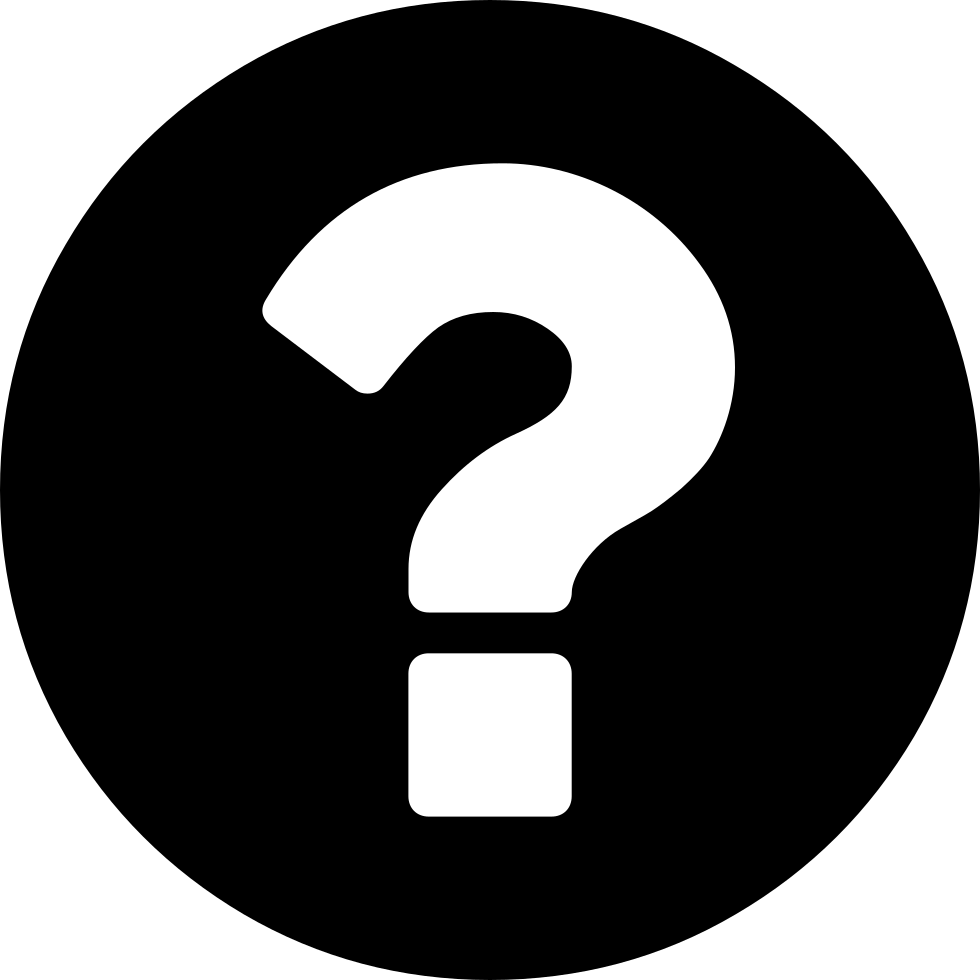
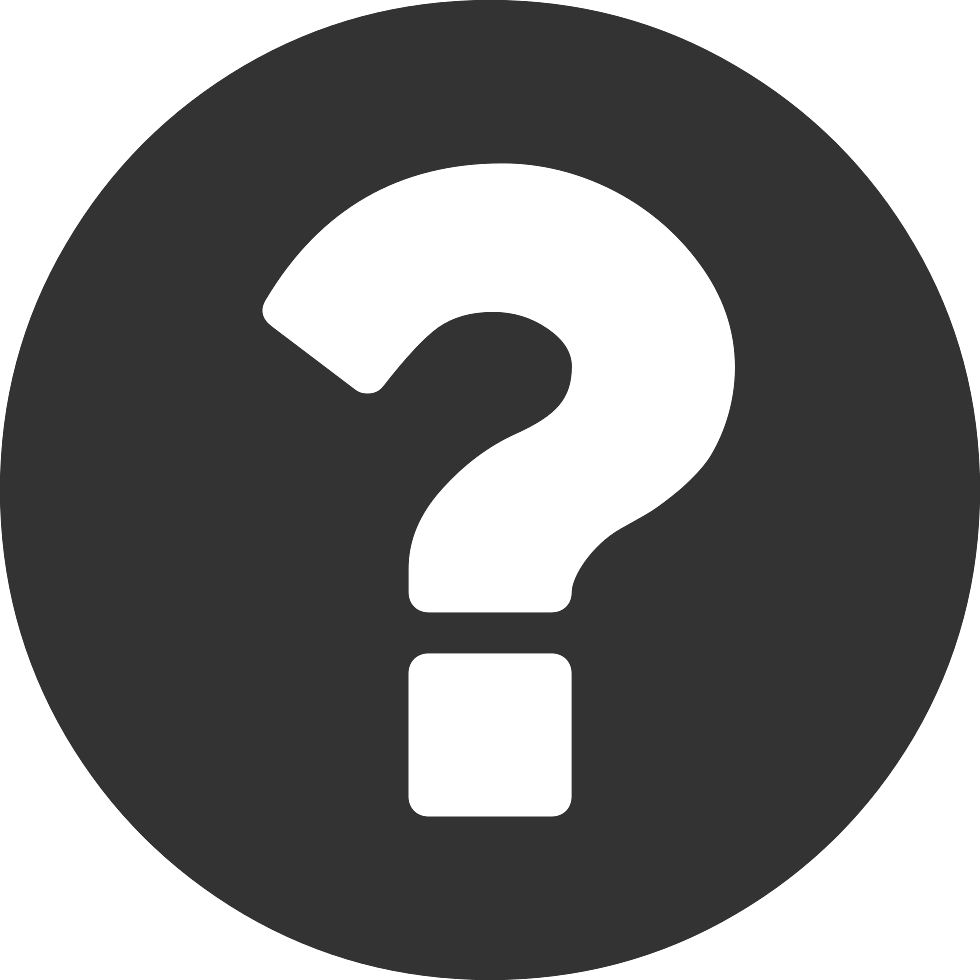
Add automatic dark mode

diff --git a/src/components/Info.css b/src/components/Info.css
@@ -3,6 +3,7 @@
   margin: auto;
   flex: 1 0 auto;
   padding-bottom: 20px;
+  background-color: white;
 }
 
 form * {
@@ -10,21 +11,40 @@ form * {
   padding: 10px;
   margin: 5px;
   border-radius: 5px;
-  border-width: thin;
+  border-width: 1px;
   font-family: 'Montserrat', Arial, sans-serif;
 }
 
-#input {
-  border-color: black;
+#search-header {
+  padding: 20px 0;
+  width: 100%;
+  background-color: var(--search-color-light);
   border-style: solid;
+  border-width: 0 0 1px 0;
+  border-color: var(--border-color-light);
+}
+
+#input {
+  border-style: solid;
+  border-color: var(--border-color-light);
+}
+
+#input:focus {
+  outline-style: none;
+  border-color: var(--text-color-light);
 }
 
 #search {
   padding: 10px;
-  color: white;
+  color: var(--bg-color-light);
   background-color: green;
   border-style: solid;
   border-color: darkgreen;
+  cursor: pointer;
+}
+
+#search:active {
+  border-color: limegreen;
 }
 
 .nav {
@@ -33,28 +53,74 @@ form * {
   margin: 10px 10px 0 10px;
   border-radius: 5px;
   border-style: solid;
-  border-width: thin;
+  border-width: 1px;
+  border-color: var(--border-color-light);
+}
+
+.nav:active {
+  border-color: var(--text-color-light);
 }
 
 .nav:enabled {
-  background-color: white;
+  background-color: var(--bg-color-light);
+  cursor: pointer;
 }
 
 .nav:disabled {
-  background-color: #eee;
+  background-color: var(--search-color-light);
 }
 
 .nav:active {
   color: black;
 }
 
-#searchHeader {
-  padding: 20px 0;
-  width: 100%;
-  background-color: #e7e7e7;
-}
-
 .card {
   width: 50%;
   margin: auto;
+}
+
+@media screen and (prefers-color-scheme: dark) {
+  .info {
+    background-color: var(--bg-color-dark);
+  }
+
+  #search-header {
+    background-color: var(--bg-color-dark);
+    border-style: solid;
+    border-width: 0 0 1px 0;
+    border-color: var(--border-color-dark);
+  }
+
+  #input {
+    background-color: var(--accent-color-dark);
+    border-color: var(--border-color-dark);
+    color: var(--text-color-dark);
+  }
+
+  #search {
+    color: var(--text-color-dark);
+    background-color: rgba(0, 100, 0, 0.8);
+  }
+
+  #description {
+    color: var(--text-color-dark);
+  }
+
+  .nav {
+    border-color: var(--border-color-dark);
+  }
+
+  .nav:active {
+    border-color: var(--text-color-dark);
+  }
+
+  .nav:enabled {
+    background-color: var(--accent-color-dark);
+    color: var(--text-color-dark);
+  }
+
+  .nav:disabled {
+    background-color: var(--bg-color-dark);
+    color: var(--border-color-dark);
+  }
 }

diff --git a/src/components/Movie.css b/src/components/Movie.css
@@ -10,7 +10,7 @@
   border-style: none;
 }
 
-.cardImage {
+.card-image {
   max-width: 100px;
   vertical-align: middle;
 }
@@ -29,17 +29,19 @@
   padding: 10px;
 }
 
-.moreInfo {
-  background-color: #e7e7e7;
+.more-info {
+  background-color: var(--search-color-light);
   font-family: 'Montserrat', Arial, monospace;
   padding: 10px;
   border-radius: 5px;
   border-style: solid;
   border-width: thin;
+  border-color: var(--border-color-light);
+  cursor: pointer;
 }
 
-.moreInfo:active {
-  color: black;
+.more-info:active {
+  border-color: var(--text-color-light);
 }
 
 /* Prevent scrolling when modal dialogue is open */
@@ -52,13 +54,13 @@
   top: 50%;
   left: 50%;
   transform: translate(-50%, -50%);
-  background: white;
+  background-color: var(--bg-color-light);
   overflow: auto;
   border-radius: 10px;
   padding: 20px;
 }
 
-.modalOverlay {
+.modal-overlay {
   position: fixed;
   height: 100%;
   width: 100%;
@@ -69,7 +71,7 @@
   background: rgba(0, 0, 0, 0.1);
 }
 
-.modalInfo {
+.modal-info {
   text-align: center;
 }
 
@@ -95,4 +97,35 @@
 
 .awful {
   color: red;
+}
+
+@media screen and (prefers-color-scheme: dark) {
+  .card {
+    border-color: var(--border-color-dark);
+  }
+
+  .title {
+    color: var(--text-color-dark);
+  }
+
+  .more-info {
+    background-color: var(--accent-color-dark);
+    border-color: var(--border-color-dark);
+    color: var(--text-color-dark);
+  }
+
+  .more-info:active {
+    border-color: var(--text-color-dark);
+  }
+
+  .modal {
+    background-color: var(--bg-color-dark);
+    border-style: solid;
+    border-width: 1px;
+    border-color: var(--border-color-dark);
+  }
+
+  .modal-info {
+    color: var(--text-color-dark);
+  }
 }

diff --git a/src/components/Movie.js b/src/components/Movie.js
@@ -90,16 +90,16 @@ function Movie(props) {
       {props.movies.map(movie => {
         return (
           <Card className="card" key={movie.imdbID}>
-            <Card.Img className="cardImage" src={movie.Poster !== 'N/A' ? movie.Poster : NoPoster}/>
+            <Card.Img className="card-image" src={movie.Poster !== 'N/A' ? movie.Poster : NoPoster}/>
 
           <div className="description">
-              <Card.Body className="descriptionText">
+              <Card.Body className="description-text">
                 <Card.Title className="title">{formatTitle(movie.Title, movie.Year)}</Card.Title>
 
-                <button className="moreInfo" onClick={() => open(movie.imdbID)}>More info</button>
+                <button className="more-info" onClick={() => open(movie.imdbID)}>More info</button>
 
-                <Modal className="modal" overlayClassName="modalOverlay" isOpen={modalOpen} onRequestClose={() => setModalOpen(!modalOpen)}>
-                  <div className="modalInfo">
+                <Modal className="modal" overlayClassName="modal-overlay" isOpen={modalOpen} onRequestClose={() => setModalOpen(!modalOpen)}>
+                  <div className="modal-info">
                     <h2>{formatTitle(selection.Title, selection.Year)}</h2>
                     <p>Release Date: {formatDate(selection.Released)}</p>
                     <p>Runtime: {formatTime(selection.Runtime)}</p>

diff --git a/src/index.css b/src/index.css
@@ -1,6 +1,26 @@
-@import url('https://fonts.googleapis.com/css2?family=Montserrat:ital,wght@0,100;0,200;0,300;0,400;0,500;0,600;0,700;0,800;0,900;1,100;1,200;1,300;1,400;1,500;1,600;1,700;1,800;1,900&display=swap');
+@import url('https://fonts.googleapis.com/css2?family=Montserrat:wght@400;700&display=swap');
+
+html {
+  --text-color-light: black;
+  --text-color-dark: #ccc;
+  --bg-color-light: white;
+  --bg-color-dark: #181818;
+  --accent-color-light: #013d5b;
+  --accent-color-dark: #222;
+  --border-color-light: #aaa;
+  --border-color-dark: #333;
+  --search-color-light: #e8e8e8;
+  --search-color-dark: #181818;
+}
 
 body {
   margin: 0;
   font-family: 'Montserrat', Arial, sans-serif;
+  background-color: var(--accent-color-light);
+}
+
+@media screen and (prefers-color-scheme: dark) {
+  body {
+    background-color: var(--accent-color-dark);
+  }
 }

diff --git a/src/components/Header.css b/src/components/Header.css
@@ -1,16 +1,26 @@
 .header {
-  background-color: #013D5B;
+  background-color: var(--accent-color-light);
   min-height: 100px;
-  color: white;
+  color: var(--bg-color-light);
   display: flex;
   flex-direction: column;
   justify-content: center;
 }
-
 
 #icon {
   width: 60px;
   position: absolute;
   top: 20px;
   left: 20px;
+}
+
+@media screen and (prefers-color-scheme: dark) {
+  .header {
+    background-color: var(--accent-color-dark);
+    color: var(--text-color-dark);
+  }
+
+  #icon {
+    opacity: 77%;
+  }
 }

diff --git a/src/components/Footer.css b/src/components/Footer.css
@@ -1,8 +1,7 @@
 .footer {
-  background-color: #013D5B;
-  justify-content: center;
+  background-color: var(--accent-color-light);
   font-size: 20px;
-  color: white;
+  color: var(--bg-color-light);
 }
 
 h4 {
@@ -10,5 +9,16 @@ h4 {
 }
 
 a {
-  color: white;
+  color: var(--bg-color-light);;
+}
+
+@media screen and (prefers-color-scheme: dark) {
+  .footer {
+    background-color: var(--accent-color-dark);
+    color: var(--text-color-dark);
+  }
+
+  a {
+    color: var(--text-color-dark);
+  }
 }

diff --git a/src/components/Info.js b/src/components/Info.js
@@ -30,7 +30,7 @@ function Info() {
 
   return (
     <div className="info">
-      <div id="searchHeader">
+      <div id="search-header">
         <form onSubmit={submit}>
           <label id="description" htmlFor="queryInput">Movie Name:</label>
           <input id="input" value={query} type="text"

diff --git a/src/components/Header.js b/src/components/Header.js
@@ -1,4 +1,4 @@
-import React from 'react';
+import React, { useState } from 'react';
 import './Header.css';
 import Icon from '../icon.png';
 
